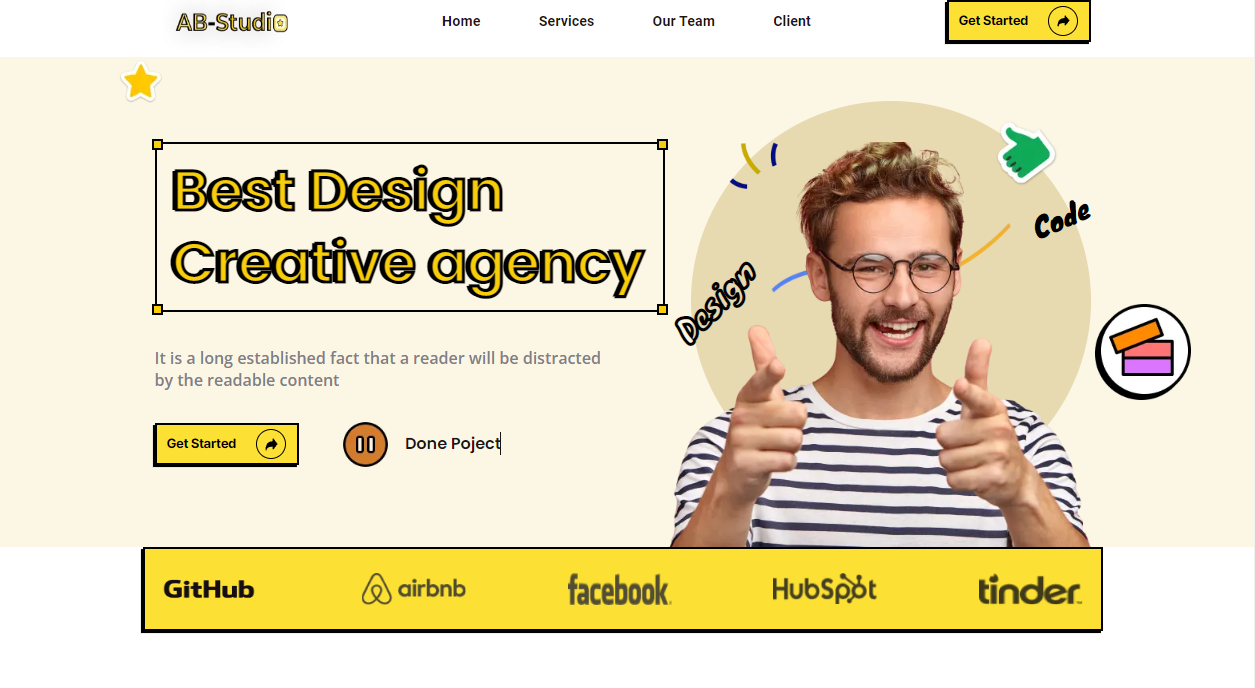
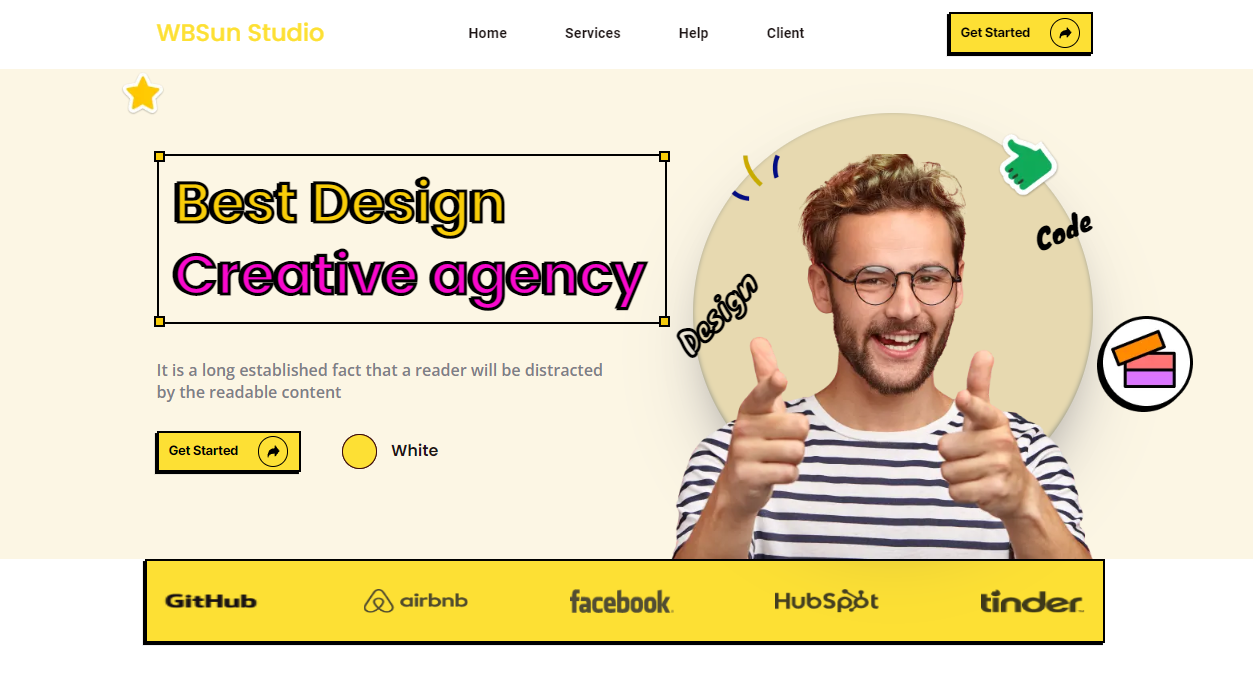
dev

Changed region(s): [[0.0, 0.0, 1.0, 0.9157], [0.1245, 0.9157, 0.8715, 0.9462], [0.1245, 0.6105, 0.4046, 0.702]]

diff --git a/index.html b/index.html
@@ -69,7 +69,7 @@
                 <div class="slider reveal fade-bottom">
                     <div class="link">
                         <a href="https://myroslavtiukhtii.github.io/ab-studio/dist/">
-                            AB-studio
+                            WBSun-studio
                             <i class="fa-solid fa-angles-left"></i>
                         </a>
                     </div>
